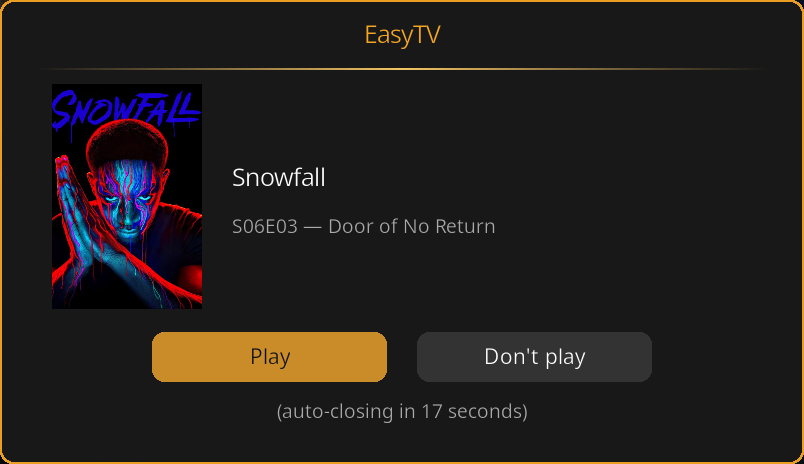
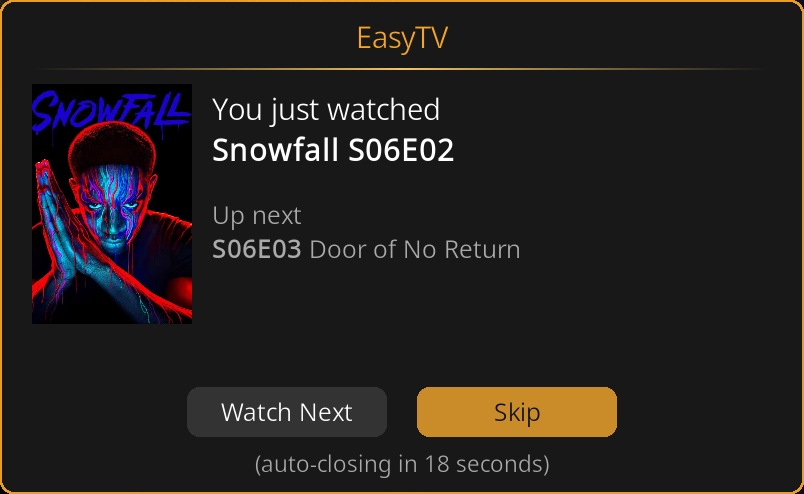
docs(screenshots): refresh dialogs with new EasyMovie-pattern text
Captures of the redesigned next-episode and missed-episode-warning
dialogs from PR #23 (alpha6 build). Both now show the clearer
EasyMovie-style copy.

dialog-next-up.png
------------------

New layout reflects the 800x490 dialog from script-easytv-nextepisode.xml:
  - "You just watched / [B]Snowfall S06E02[/B]" (top block, font13)
  - "Up next / [B]S06E03[/B] Door of No Return" (bottom block, font12)
  - Watch Next / Skip buttons (was Play / Don't Play)
  - "(auto-closing in 18 seconds)" timer below buttons

Cropped to 804x494 at offset (558, 293), matching the dialog
container plus 2px accent border on each side.

dialog-missed-warning.png
-------------------------

Same 800x480 layout as before, but with the new copy:
  - "[B]Snowfall S06E03[/B]" (bold identifier line)
  - "is in your library and unwatched."
  - "Would you like to watch it instead?"
  - Yes / No buttons

Cropped to 804x484 at offset (558, 298).

settings-reference.md > Playback > Warnings
-------------------------------------------

Added a one-paragraph description of the missed-episode warning
behavior with the screenshot embedded between the Warnings table and
the trailing horizontal rule, and a Yes/No outcome line. The
warning is auto-triggered (no setting beyond "Warn about earlier
unwatched episodes" controls it), so it sits in the same section as
the toggle that gates it.

diff --git a/docs/settings-reference.md b/docs/settings-reference.md
@@ -303,7 +303,11 @@ The dialog itself always offers both **Generate** and **Stop** buttons. The **If
 |---------|---------|---------|-------------|
 | **Warn about earlier unwatched episodes** | On / Off | On | Alert if skipping an unwatched episode |
 
-When enabled, if you're about to play S02E05 but S02E03 is unwatched, EasyTV asks if you want to watch the earlier episode instead.
+When enabled, if you're about to play S02E05 but S02E03 is unwatched, EasyTV asks if you want to watch the earlier episode instead. The dialog shows the show + episode number and asks whether to switch to the library version:
+
+![Missed episode warning](assets/screenshots/dialog-missed-warning.png)
+
+Click **Yes** to stop the current playback and play the earlier library episode instead. Click **No** to continue with what you started.
 
 ---
 